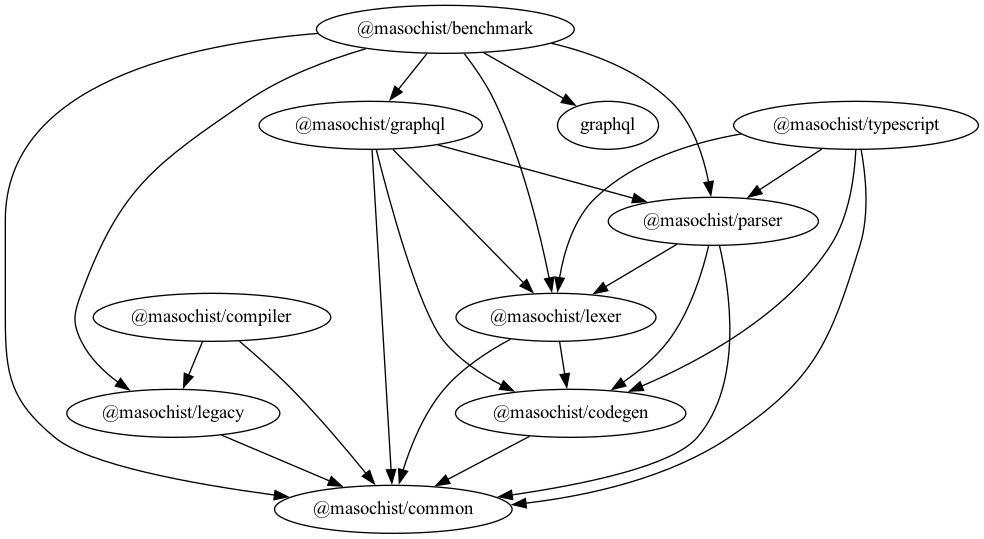
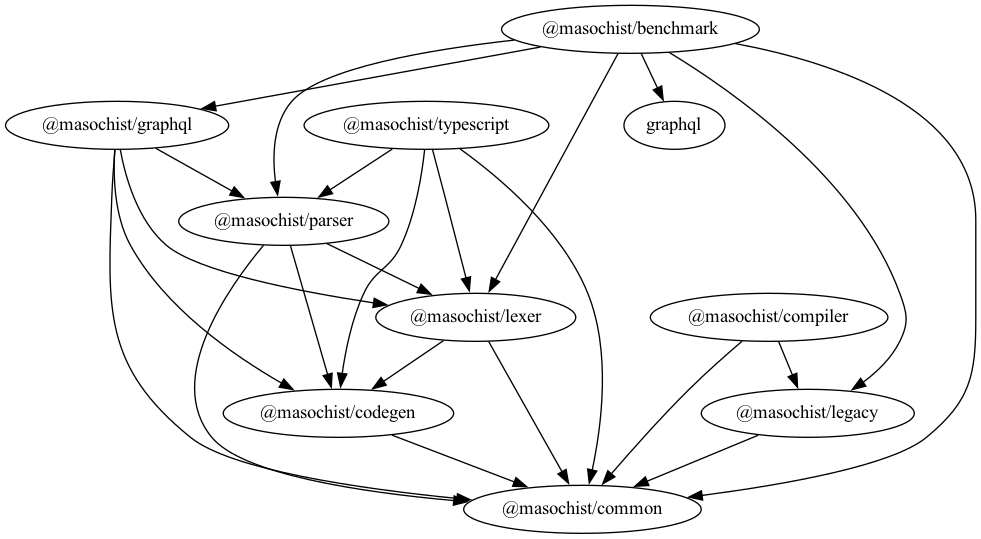
refactor: port support file to TS

diff --git a/support/dotifyDependencyGraph.ts b/support/dotifyDependencyGraph.ts
@@ -3,20 +3,26 @@ import {promises as fs} from 'fs';
 import path from 'path';
 import {fileURLToPath} from 'url';
 
+type Options = {
+  dark?: boolean;
+};
+
 const __filename = fileURLToPath(import.meta.url);
 
-function log(...args) {
+function log(...args: Array<any>) {
   console.log(...args);
 }
 
-async function main(options = {}) {
+async function main(options: Options = {}) {
   const color = [
     `color = "${options.dark ? 'white' : 'black'}"`,
     `fontcolor = "${options.dark ? 'white' : 'black'}"`,
   ].join(', ');
 
   // Build dependency graph.
-  const dependencies = {};
+  const dependencies: {
+    [name: string]: Set<string>;
+  } = {};
   const packages = path.join(__filename, '..', '..', 'packages');
   for (const entry of await fs.readdir(packages, {withFileTypes: true})) {
     if (entry.isDirectory()) {
@@ -41,7 +47,7 @@ async function main(options = {}) {
   log('// vim: set nomodifiable : DO NOT EDIT');
   log('//');
   log(
-    '// Edit "support/dotifyDependencyGraph.mjs" and run "make docs" instead.',
+    '// Edit "support/dotifyDependencyGraph.ts" and run "make docs" instead.',
   );
   log('//');
   log('// @generated');
@@ -61,6 +67,6 @@ async function main(options = {}) {
   log('}');
 }
 
-main({dark: process.env['DARK']}).catch((error) => {
+main({dark: !!process.env['DARK']}).catch((error) => {
   console.log(error);
 });
